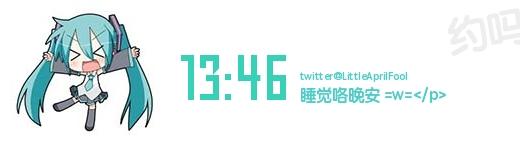
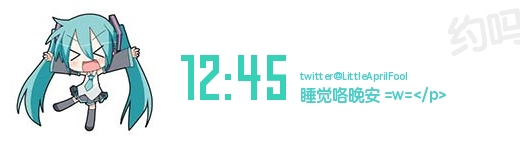
fix .htaccess

Changed region(s): [[0.3692, 0.4533, 0.4308, 0.64], [0.4923, 0.5333, 0.5538, 0.5867], [0.5231, 0.48, 0.5538, 0.5067]]

diff --git a/qmd.php b/qmd.php
@@ -10,7 +10,7 @@ echo $res[1];
 //set time zone
 date_default_timezone_set('America/Vancouver');
 
-
+while(1){
 	
 	//remove old signature
 	unlink('/var/www/html/qmd/april_qmd.jpg');
@@ -92,7 +92,7 @@ date_default_timezone_set('America/Vancouver');
 	// Free up memory
 	imagedestroy($dest);
 	
-	//sleep an hour (to save CPU)
+	//sleep a minute (to save CPU)
 	sleep(60);
 }
 ?>
